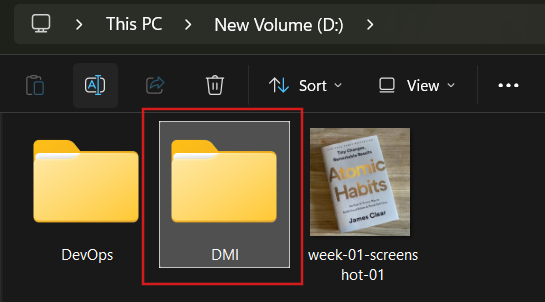
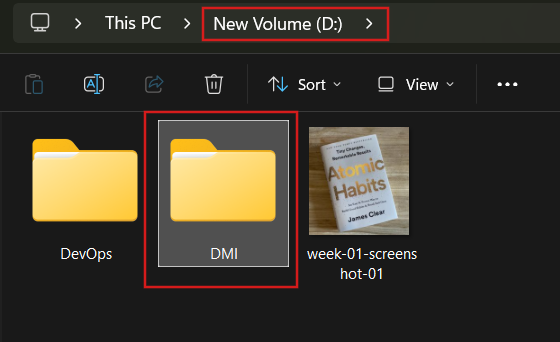
Updated assignment guidelines file

diff --git a/onboarding/04-assignment-submission-guide.md b/onboarding/04-assignment-submission-guide.md
@@ -135,7 +135,7 @@ Example:
 
 ```bash
 
-cd "E:\DMI"
+cd "D:\DMI"
 
 ```
 
